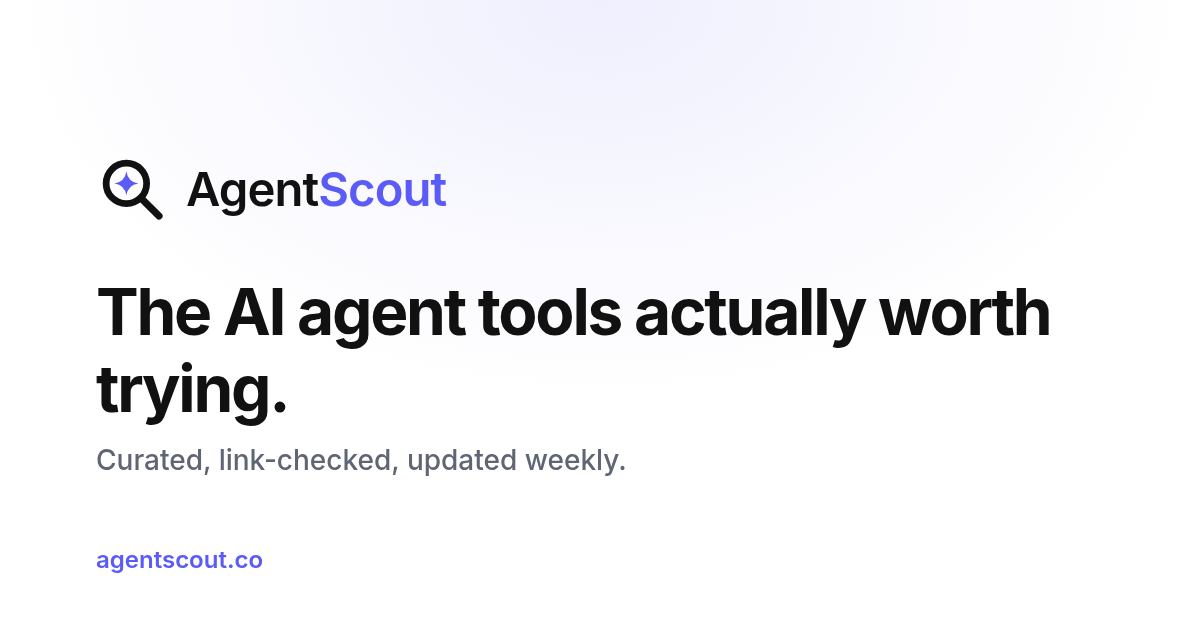
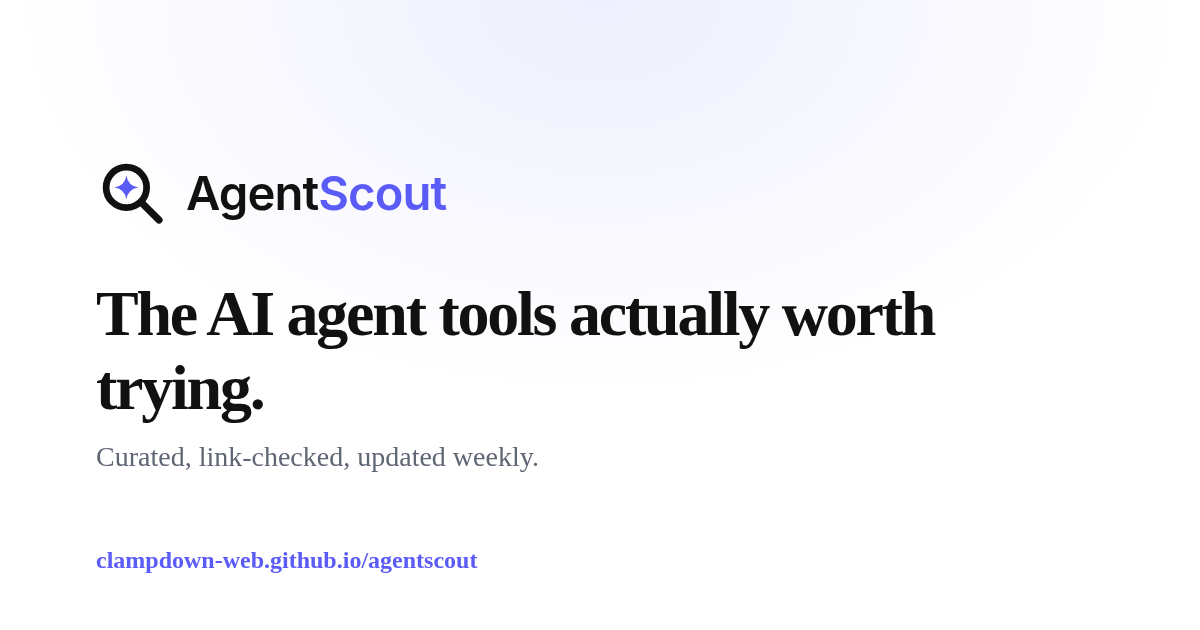
OG image: use github.io URL

diff --git a/og.html b/og.html
@@ -1,1 +1,1 @@
-<html><head><link href="https://fonts.googleapis.com/css2?family=Inter:wght@500;600;700&display=swap" rel="stylesheet"><style>body{margin:0;width:1200px;height:630px;background:radial-gradient(70% 90% at 50% 0%,#EFEFFE,#fff 70%);font-family:Inter;display:flex;flex-direction:column;justify-content:center;padding:0 96px;box-sizing:border-box}img{height:72px;align-self:flex-start}h1{font-size:64px;letter-spacing:-.035em;margin:48px 0 16px;color:#111}p{font-size:28px;color:#5E6573;margin:0}.u{position:absolute;bottom:56px;font-size:24px;color:#5B5BF7;font-weight:600}</style></head><body><img src="logo-wordmark.svg"><h1>The AI agent tools actually worth trying.</h1><p>Curated, link-checked, updated weekly.</p><div class="u">agentscout.co</div></body></html>
+<html><head><link href="https://fonts.googleapis.com/css2?family=Inter:wght@500;600;700&display=swap" rel="stylesheet"><style>body{margin:0;width:1200px;height:630px;background:radial-gradient(70% 90% at 50% 0%,#EFEFFE,#fff 70%);font-family:Inter;display:flex;flex-direction:column;justify-content:center;padding:0 96px;box-sizing:border-box}img{height:72px;align-self:flex-start}h1{font-size:64px;letter-spacing:-.035em;margin:48px 0 16px;color:#111}p{font-size:28px;color:#5E6573;margin:0}.u{position:absolute;bottom:56px;font-size:24px;color:#5B5BF7;font-weight:600}</style></head><body><img src="logo-wordmark.svg"><h1>The AI agent tools actually worth trying.</h1><p>Curated, link-checked, updated weekly.</p><div class="u">clampdown-web.github.io/agentscout</div></body></html>
